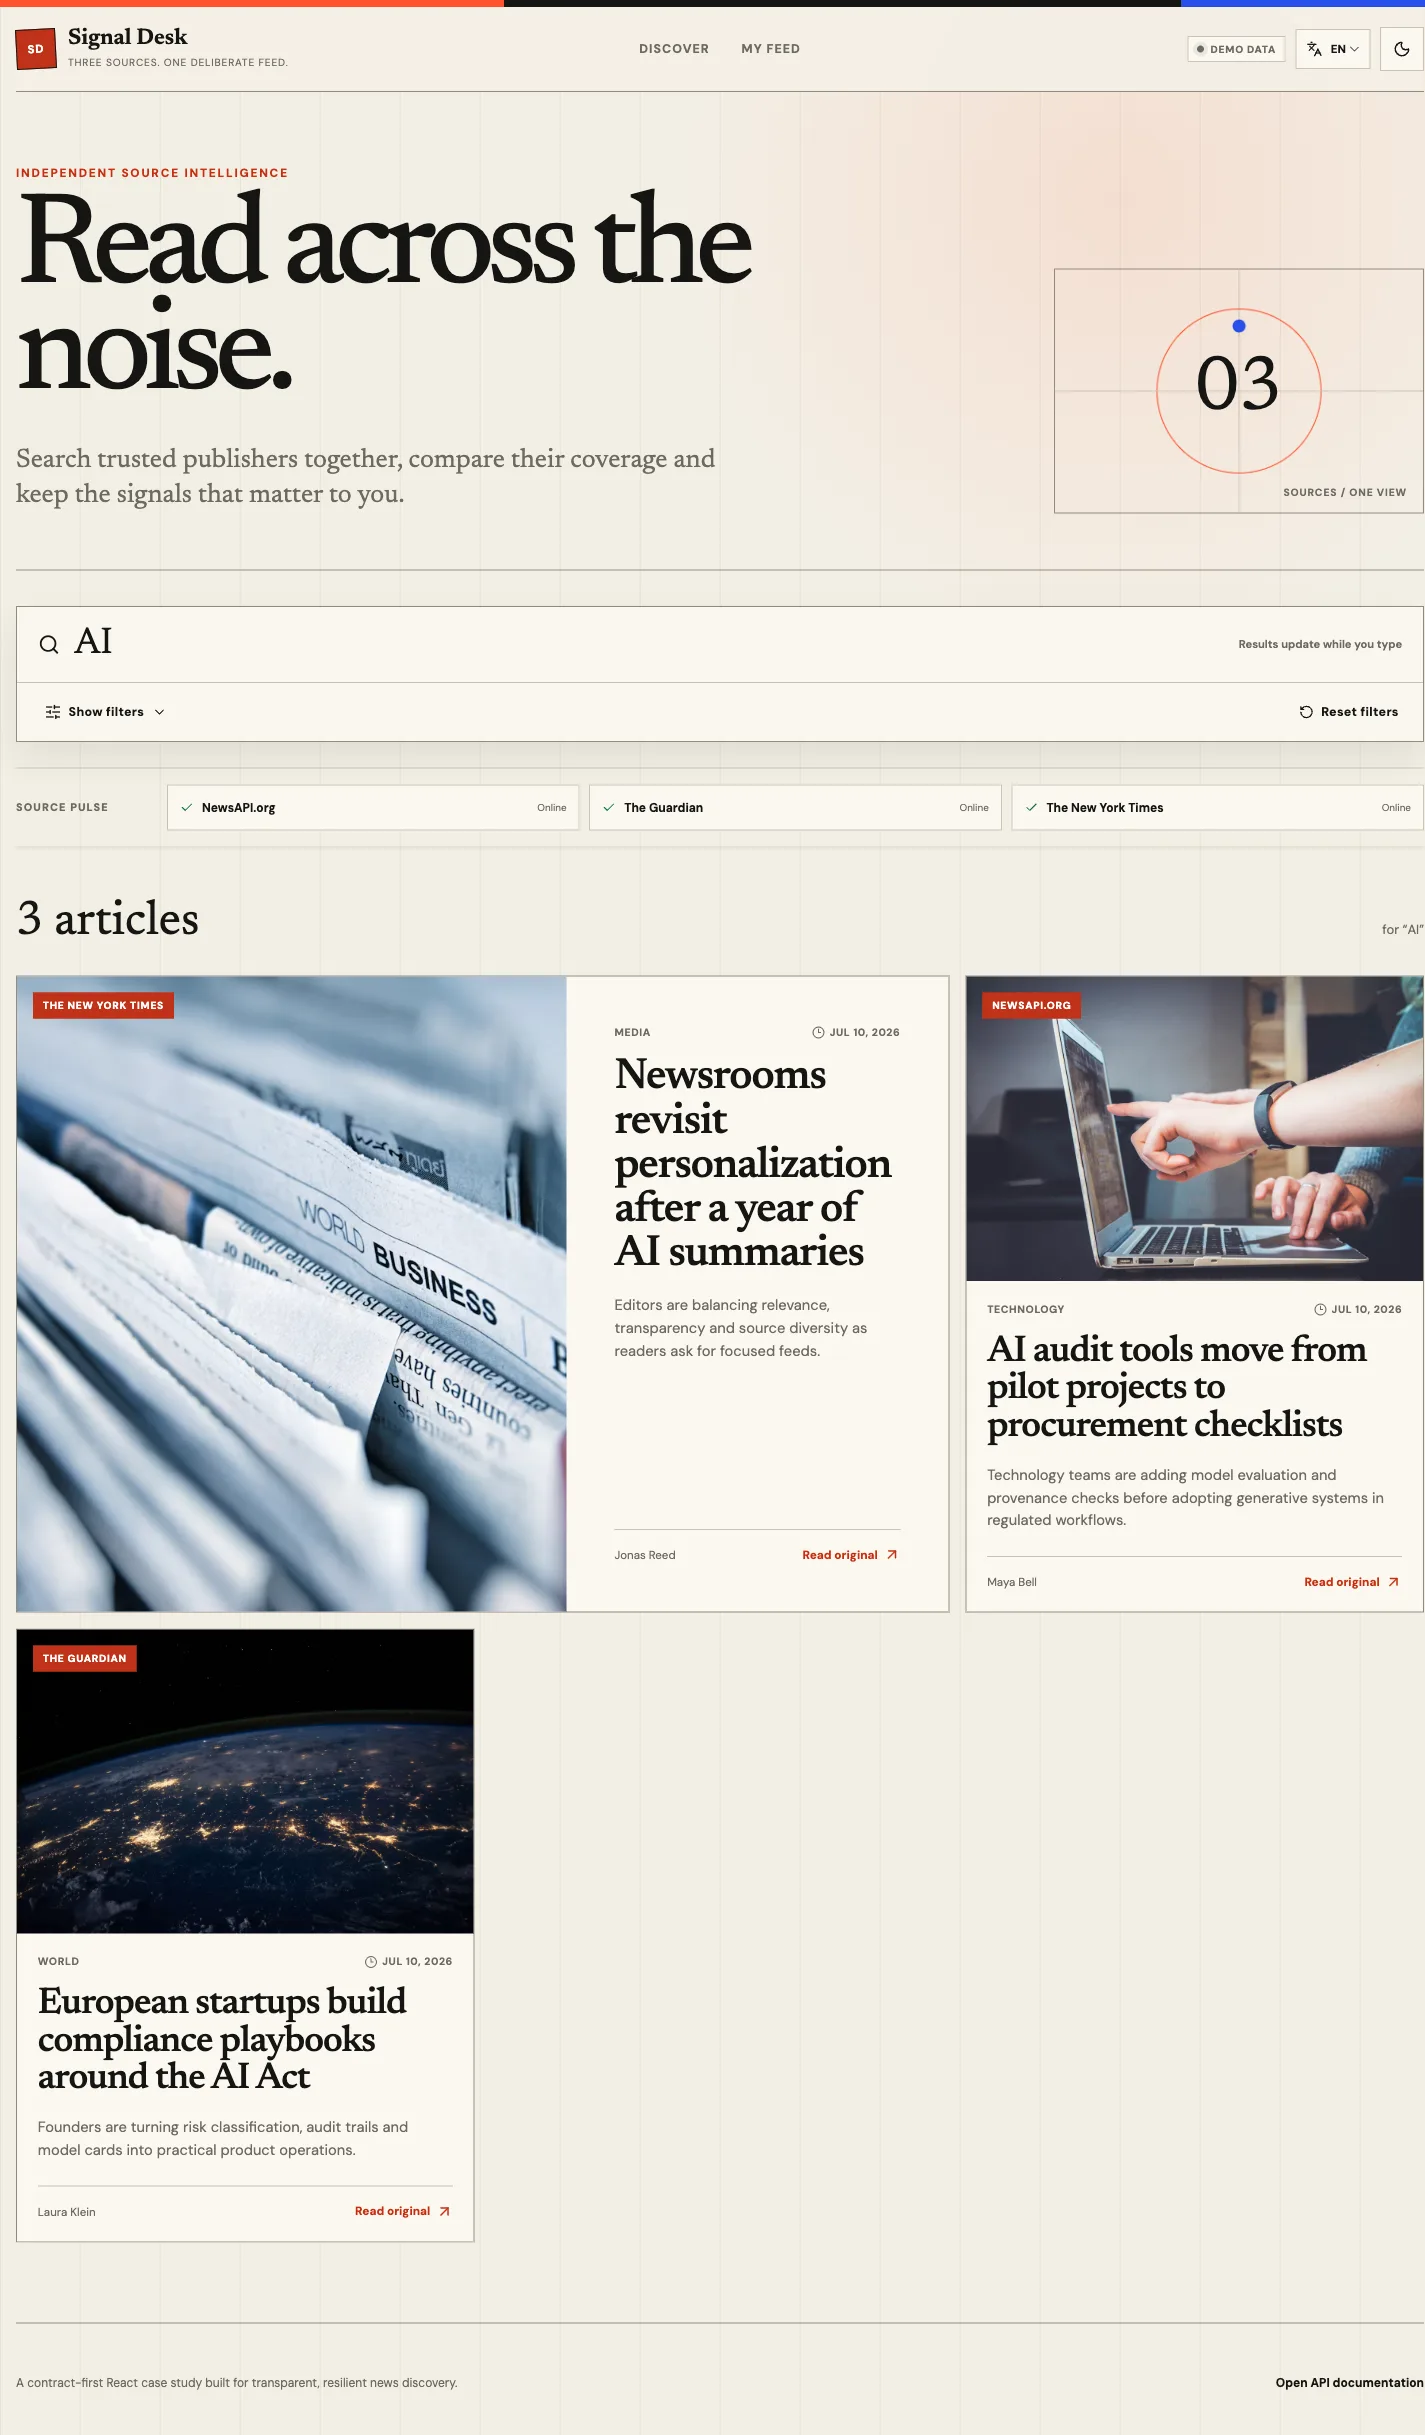
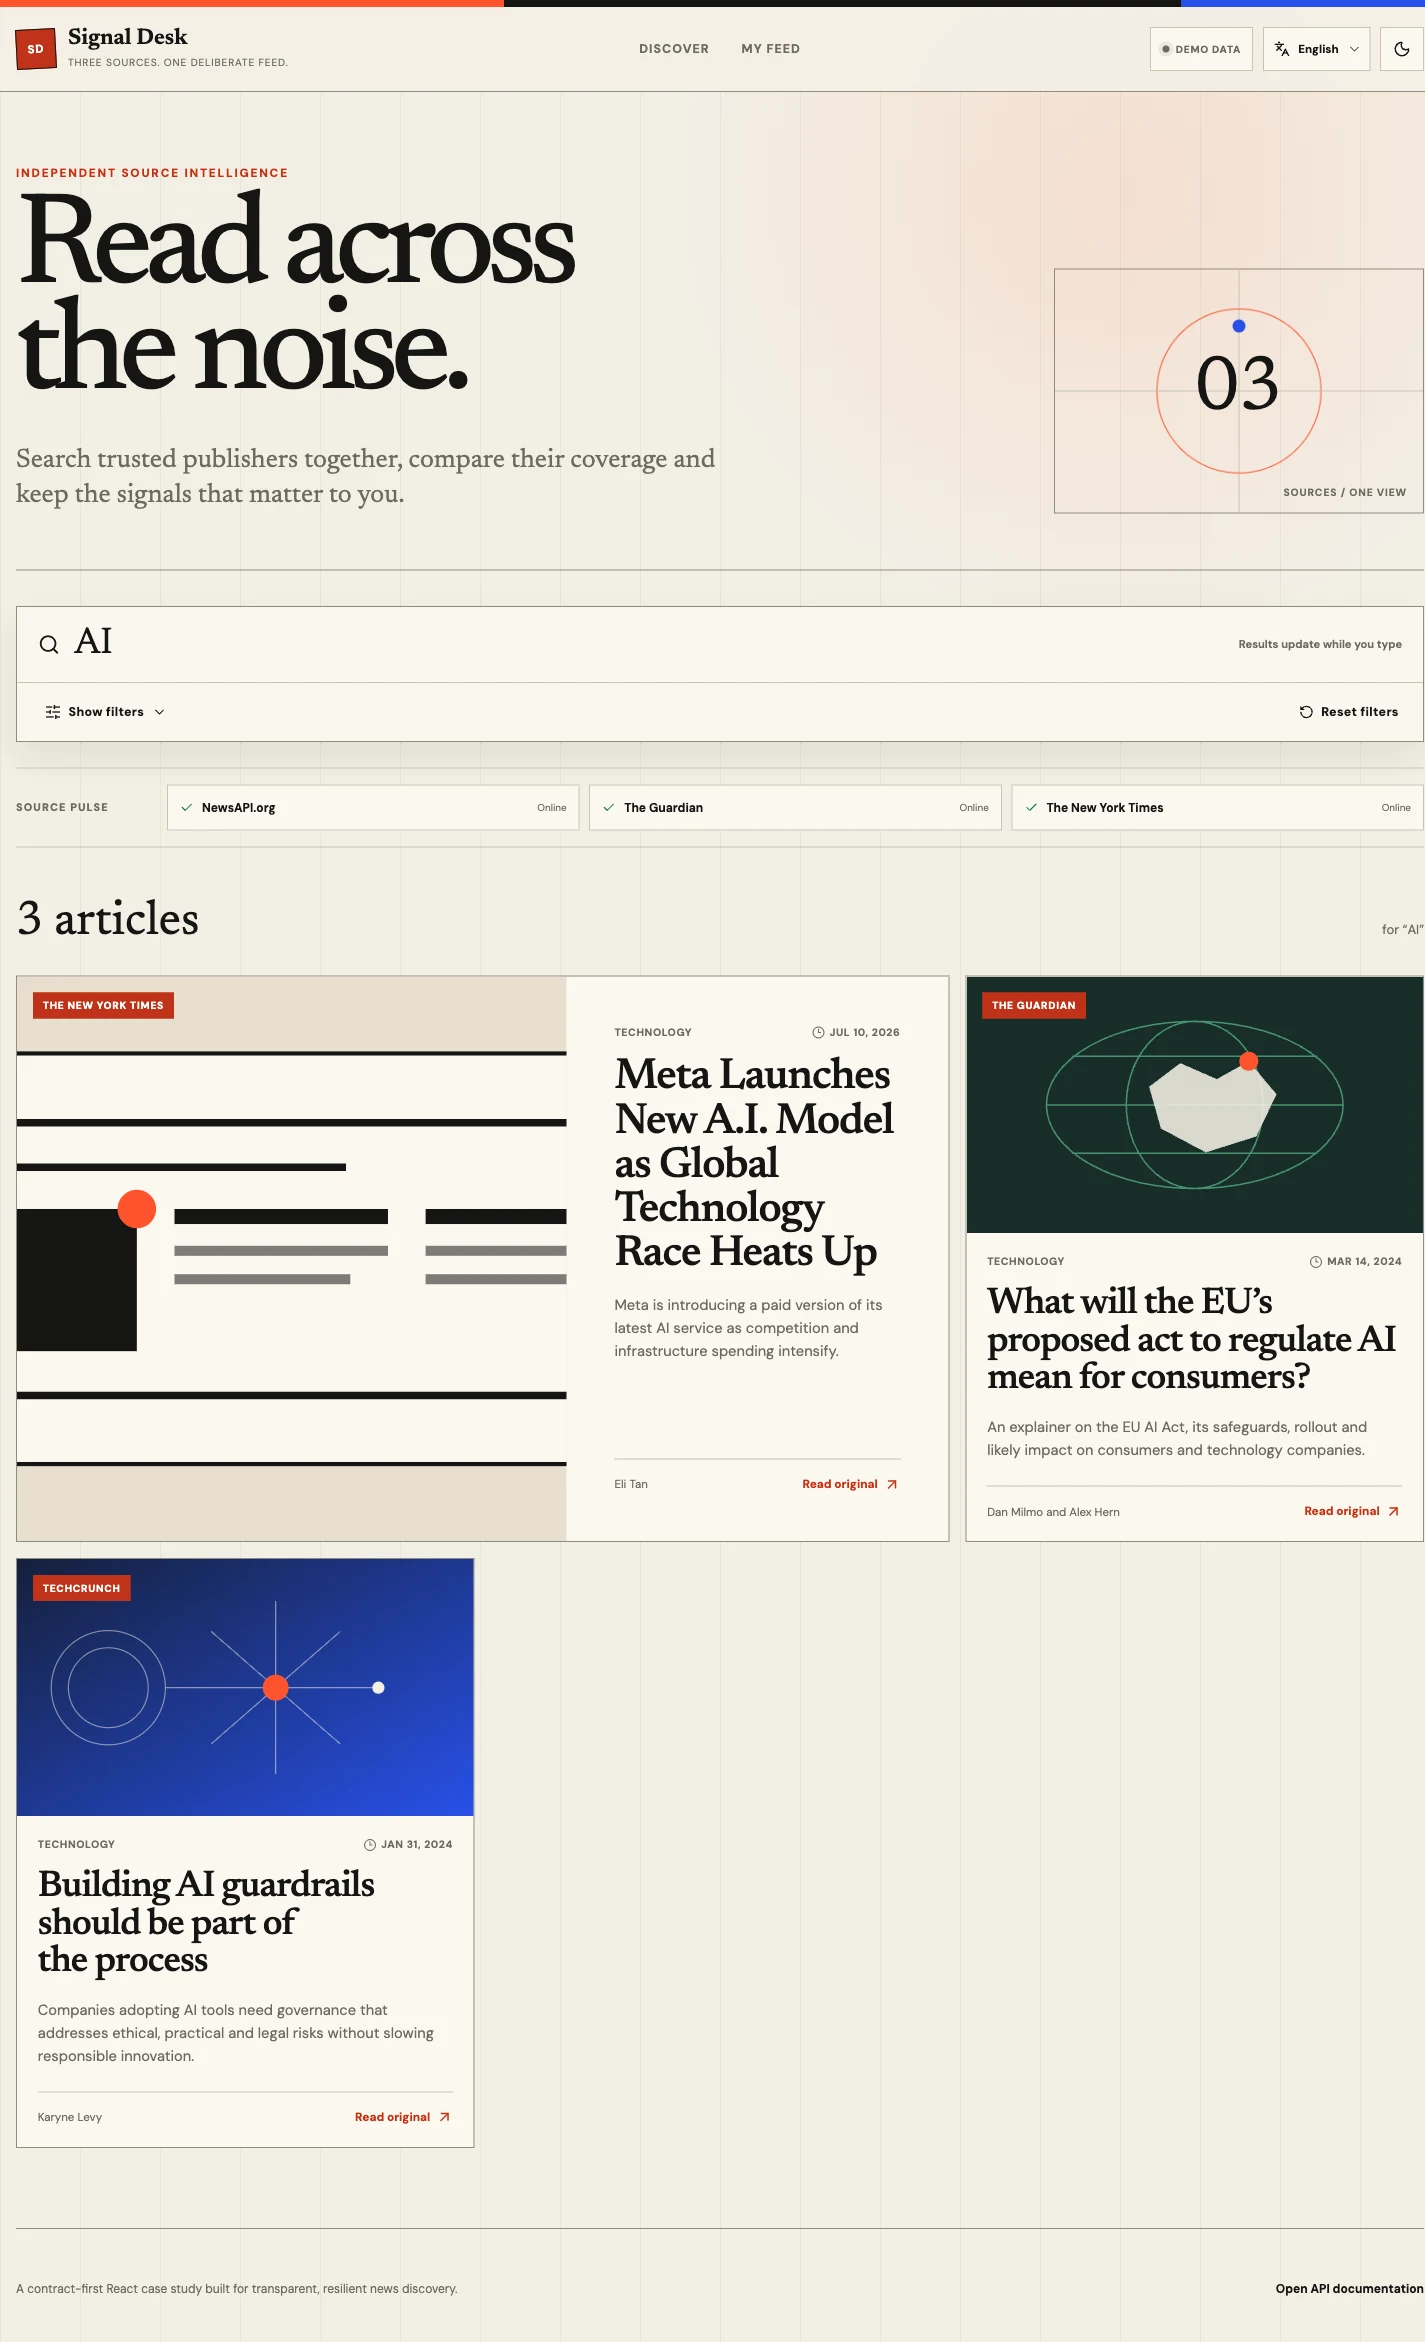
chore(project): integrate GitNexus tooling and finalize submission docs
- Add on-demand GitNexus code-graph scripts and MCP config, kept out of app
  dependencies, the Docker context, and runtime delivery
- Ignore the local .gitnexus index and exclude it from the Docker build
- Correct the copyright holder and README authorship to Jean-Baptiste Thery
- Sync AGENTS, README, architecture, API-source and checklist docs with the
  current runtime behavior and environment handling
- Ship the DM Sans and Newsreader OFL 1.1 third-party font notices
- Refresh the desktop and mobile search screenshots

diff --git a/README.md b/README.md
@@ -13,20 +13,21 @@ browser fixtures and requires no API credentials.
 
 ## AI-assisted engineering, human-owned delivery
 
-This project demonstrates how I use AI professionally. I combine the speed of Codex
-and Claude Code with nine years of engineering experience to define architecture,
-control scope, challenge generated solutions, and validate every change. AI proposes
-and accelerates implementation. I remain accountable for requirements, trade-offs,
-security, testing, maintainability, and the final merge decision.
+This project demonstrates how I, Jean-Baptiste Thery, use AI professionally. I combine
+the speed of Codex and Claude Code with nine years of engineering experience to define
+architecture, control scope, challenge generated solutions, and validate every change.
+AI proposes and accelerates implementation. I remain accountable for requirements,
+trade-offs, security, testing, maintainability, and the final merge decision.
 
 | Tool | Role in my workflow |
 | --- | --- |
-| JCode Skills | My private, self-maintained repository of reusable engineering workflows. I refine it as I learn from real delivery work. |
+| Personal engineering skills | My private, self-maintained repository of reusable engineering workflows. I refine it as I learn from real delivery work. |
 | Ragmir | My local-first retrieval library. I use it to analyze confidential source material locally and derive anonymized, traceable specifications without publishing the original brief. |
+| GitNexus | Builds a local code graph for architecture discovery, dependency tracing, and impact analysis before non-trivial changes. |
 | Codex and Claude Code | Generate and refactor scoped implementations and test scaffolding from explicit constraints. |
 | Agent Browser and Chrome DevTools MCP | Validate rendered behavior through the DOM, console, network, storage, accessibility tree, and responsive viewports. |
 
-The JCode workflows used around this project stay deliberately focused:
+The reusable workflows I maintain for this project stay deliberately focused:
 
 | Skill | Responsibility |
 | --- | --- |
@@ -122,6 +123,7 @@ generates the browser client, and CI rejects generated-client drift.
 | Sources | NewsAPI, Guardian, and NYT adapters with per-source fixture fallback |
 | Accessibility and i18n | Semantic HTML, keyboard focus, reduced motion, English and German |
 | Quality | Biome, TypeScript, Vitest, Playwright, React Doctor, commitlint, Husky |
+| Code intelligence | GitNexus local code graph for architecture and impact analysis |
 | Delivery | Node 22, `mise`, multi-stage Docker, GitHub Actions, GitHub Pages |
 
 More detail is available in [the architecture note](docs/architecture.md) and
@@ -137,6 +139,8 @@ More detail is available in [the architecture note](docs/architecture.md) and
 - Telemetry records page paths, query length rather than query text, and captured application errors.
 - A React error boundary, provider status strip, and `/api/health` expose client and runtime health.
 - CI and Docker smoke tests verify health, search behavior, static delivery, and graceful shutdown.
+- Bundled DM Sans and Newsreader files ship with their required [OFL 1.1 notices](apps/frontend/public/THIRD_PARTY_NOTICES.txt).
+- GitNexus is optional local-only tooling under PolyForm Noncommercial 1.0.0; it is fetched on demand and excluded from application dependencies, Docker, and runtime delivery.
 
 This is review-grade observability, not a claim of a staffed production monitoring
 service. A production rollout would add alerting, server traces, rate limiting, and
@@ -182,6 +186,8 @@ date-stamped evidence lives in [the control checklist](docs/control-checklist.md
 | `mise exec -- pnpm test:e2e` | Run desktop and mobile Playwright journeys. |
 | `mise exec -- pnpm build:static-demo` | Build the fixture-only browser demo. |
 | `mise exec -- pnpm generate:api` | Regenerate OpenAPI and the Orval client. |
+| `mise exec -- pnpm gitnexus:analyze` | Build or refresh the ignored local GitNexus index. |
+| `mise exec -- pnpm gitnexus:status` | Show whether the code graph matches the checkout. |
 
 The repository pins Node `22.22.3` and pnpm `10.34.4`. Use `mise exec -- pnpm`
 or `corepack pnpm` instead of an unrelated global pnpm version.
@@ -192,22 +198,28 @@ or `corepack pnpm` instead of an unrelated global pnpm version.
 | --- | --- |
 | Mock | No provider keys, all adapters return local fixtures. |
 | Mixed | Configured sources are live, remaining sources use fixtures. |
-| Live | All three adapters call their upstream APIs from Hono. |
+| Live | All three credentials are present, so the adapters attempt their upstream APIs from Hono. |
 | Static demo | The browser uses fixtures without a server or API requests. |
 
-Copy [`.env.example`](.env.example) to `.env` only when configuration is needed.
-Server secrets use `NEWS_API_KEY`, `GUARDIAN_API_KEY`, and `NYT_API_KEY`.
+Docker Compose reads an ignored `.env` copied from [`.env.example`](.env.example).
+For `mise run local`, export `NEWS_API_KEY`, `GUARDIAN_API_KEY`, and `NYT_API_KEY`
+in the shell before starting the stack. Vite environment files do not inject these
+server secrets into the Hono process. Never commit real values.
+
 Public PostHog settings use `VITE_PUBLIC_POSTHOG_KEY` and
 `VITE_PUBLIC_POSTHOG_HOST`. Set `MOCK_FAIL_PROVIDER` to demonstrate partial
-failure without changing code.
+failure without changing code. The dated checklist does not claim a three-provider
+live smoke because no real provider credentials were used for that verification.
 
 ## Deliberate trade-offs
 
 - Preferences remain local because account sync and authentication are outside the brief.
 - The static demo is fixture-only; live providers require the Hono runtime.
+- NewsAPI `/everything` exposes no category field, so precise category behavior for that
+  live adapter needs a classification or endpoint strategy before production use.
 - Provider quotas and permitted use must be reviewed before production deployment.
 - Pagination and cross-publisher deduplication remain natural data-layer extensions.
 
 The durable, anonymized requirements are preserved in
-[the case study brief](docs/case-study-brief.md). Identifying source documents are
-intentionally not tracked.
+[the case study brief](docs/case-study-brief.md). The original identifying case-study
+PDF is intentionally not tracked.

diff --git a/docs/architecture.md b/docs/architecture.md
@@ -30,6 +30,17 @@ Les routes et schémas Hono produisent `openapi.json`. Orval génère ensuite le
 fonctions fetch et hooks TanStack Query du frontend. La CI régénère ce client et refuse
 toute dérive non suivie.
 
+## Routes principales
+
+| Route | Responsabilité |
+| --- | --- |
+| `/` | Recherche, filtres URL et résultats normalisés |
+| `/feed` | Préférences et flux personnalisé |
+| `/api/health` | Santé du runtime et mode de configuration `mock`, `mixed` ou `live` |
+| `/api/search` | Recherche agrégée et statut réel de chaque fournisseur |
+| `/docs` et `/openapi.json` | Swagger UI et contrat OpenAPI du runtime Hono |
+| `/ingest/*` | Proxy PostHog optionnel et same-origin |
+
 ## État et personnalisation
 
 - Les recherches et filtres restent dans l'URL pour être partageables.
@@ -55,10 +66,11 @@ applications et copie uniquement leurs bundles dans une image Node non-root.
 - Les valeurs publiques `VITE_*` sont chargées depuis la racine du monorepo.
 - Compose transmet les valeurs PostHog publiques au build Docker, sans y inclure les
   secrets fournisseurs.
-- Le BFF ajoute les en-têtes de sécurité, expose `/api/health` et maintient un statut
-  par source.
-- PostHog reste optionnel et chargé dynamiquement après hydratation. L'error boundary et les smokes CI/Docker complètent la preuve
-  de santé sans prétendre remplacer un dispositif de production.
+- Le BFF ajoute les en-têtes de sécurité. `/api/health` décrit la configuration et
+  `/api/search` fournit le statut réel de chaque source interrogée.
+- PostHog reste optionnel et chargé dynamiquement après le montage client. L'error
+  boundary et les smokes CI/Docker complètent la preuve de santé sans prétendre
+  remplacer un dispositif de production.
 
 ## Validation
 

diff --git a/AGENTS.md b/AGENTS.md
@@ -7,7 +7,7 @@ Ces regles s'appliquent au depot Git Signal Desk.
 - Construire et maintenir un agregateur de news React + TypeScript livre avec son BFF.
 - Ne pas commit, push ou creer de remote sans demande explicite.
 - Le brief anonymise est la source produit autoritaire: `docs/case-study-brief.md`.
-- Ne pas reintegrer de nom d'entreprise, de document source identifiant ou de marque d'evaluateur dans le depot.
+- Ne pas reintegrer le PDF original, le nom d'entreprise ou la marque d'evaluateur dans le depot.
 - Le texte PAC est un contexte conserve: `source-materials/portail-academique-screen-map.md`. Ne pas en faire une exigence produit de l'agregateur de news sans instruction explicite.
 
 ## Communication et fichiers
@@ -22,7 +22,7 @@ Ces regles s'appliquent au depot Git Signal Desk.
 ## Securite
 
 - Ne jamais commiter de secret, de cle API, de token ou de fichier `.env`.
-- Garder les vrais secrets dans `.env.local`, un secret manager ou les variables Docker/CI.
+- Garder les vrais secrets dans un `.env` ignore pour Docker, des variables exportees pour le runtime local, un secret manager ou les variables CI.
 - `.env.example` doit contenir uniquement des noms de variables et des valeurs factices non sensibles.
 - Les cles NewsAPI, Guardian et NYT ne doivent pas etre exposees dans le bundle navigateur.
 - Si une API exige une cle secrete, passer par un proxy local, un serveur minimal, une route backend ou un mode mock documente.
@@ -42,6 +42,7 @@ Ces regles s'appliquent au depot Git Signal Desk.
 - BFF: Hono contract-first dans `apps/backend`, OpenAPI partage et client Orval genere dans `apps/frontend`.
 - Runtime: un container Node sert la SPA et `/api` sur le port 3000.
 - Configuration frontend: Vite charge les variables publiques `VITE_*` depuis la racine du monorepo; Docker les recoit au build, les secrets fournisseurs restent au runtime.
+- Intelligence de code: GitNexus 1.6.9 est execute a la demande pour construire un graphe local ignore, sans entrer dans les dependances ou l'image de l'application.
 
 ## Commandes de reference
 
@@ -59,10 +60,18 @@ Ces regles s'appliquent au depot Git Signal Desk.
 - `mise run stop`: arret et suppression de la stack Docker locale.
 - `mise run verify`: Biome, TypeScript, couverture et build de production.
 - `mise run docker:verify`: build, smoke `/api/health` et `/api/search`, puis arret propre.
+- `pnpm gitnexus:analyze`: construire ou actualiser l'index GitNexus local sans injecter de fichiers de contexte.
+- `pnpm gitnexus:status`: verifier l'etat de l'index GitNexus pour le checkout courant.
 
-## JCode skills disponibles
+## GitNexus
 
-Les skills du repo `jcode-agent-skills` sont installees localement et peuvent etre utilisees dans ce dossier quand elles correspondent a la tache:
+- Garder `.gitnexus/` ignore: l'index est local, volumineux et entierement regenerable.
+- Actualiser l'index avant une exploration d'architecture ou une analyse d'impact non triviale.
+- Utiliser l'integration MCP du projet dans `.codex/config.toml`; ne pas lancer `gitnexus setup`, qui modifierait la configuration globale de la machine.
+
+## Skills maintenues par Jean-Baptiste Thery
+
+Les skills privees maintenues par Jean-Baptiste Thery sont installees localement et peuvent etre utilisees dans ce dossier quand elles correspondent a la tache:
 
 - `docs-cartographer`: synchroniser README, docs et consignes agent avec l'etat reel du dossier.
 - `dependency-tune-up`: auditer ou mettre a jour les dependances JavaScript/TypeScript.

diff --git a/docs/api-sources.md b/docs/api-sources.md
@@ -51,7 +51,6 @@ export interface SearchParams {
 
 export interface ArticleProvider {
   id: Article["provider"];
-  label: string;
   hasLiveCredentials(): boolean;
   search(params: SearchParams, signal?: AbortSignal): Promise<Article[]>;
 }
@@ -61,11 +60,15 @@ export interface ArticleProvider {
 
 - Ne pas prefixer les cles API avec `VITE_`.
 - Ne pas appeler une API necessitant un secret directement depuis le navigateur.
-- Preferer un proxy minimal, une API route ou un serveur Docker qui lit les cles cote serveur.
-- Si les cles ne sont pas disponibles, garder un mode mock explicite avec des fixtures realistes et documenter la limitation.
+- Le BFF Hono est l'unique frontiere qui lit et transmet les cles fournisseurs.
+- Docker Compose lit les cles depuis un `.env` ignore.
+- En local, exporter les cles dans le shell avant `mise run local`; Vite ne les transmet pas au processus Hono.
 
-## Fallbacks a documenter si besoin
+## Comportement runtime
 
-- Si NewsAPI bloque le navigateur ou le plan gratuit, passer par proxy ou fixtures.
-- Si Guardian depasse le quota, afficher un etat partiel et continuer les autres providers.
-- Si NYT ne retourne pas de contenu complet, afficher les metadonnees disponibles et le lien original.
+- Sans cle, l'adaptateur concerne utilise ses fixtures realistes.
+- Avec une cle, une erreur HTTP, un quota depasse ou un schema invalide marque la source en erreur sans remplacer la reponse par des fixtures.
+- Les autres fournisseurs continuent et leurs resultats restent visibles.
+- `/api/health` decrit uniquement le mode de configuration `mock`, `mixed` ou `live` selon la presence des cles.
+- `/api/search` expose le succes ou l'echec reel de chaque fournisseur pour la recherche courante.
+- NewsAPI `/everything` ne fournit pas de categorie native. La precision du filtre categorie de cet adaptateur live reste une limite a traiter avant une production reelle.

diff --git a/docs/control-checklist.md b/docs/control-checklist.md
@@ -4,7 +4,7 @@ Vérification locale du 10 juillet 2026.
 
 ## Source et cadrage
 
-- [x] Les documents source identifiants de l'étude de cas ne sont pas suivis dans le dépôt.
+- [x] Le PDF original identifiant de l'étude de cas n'est pas suivi dans le dépôt.
 - [x] Les exigences durables sont conservées dans `docs/case-study-brief.md`.
 - [x] La méthodologie IA du README est présentée comme un différenciateur professionnel, pas comme une exigence inventée du brief.
 - [x] `PLAN.md` reste ignoré et non suivi par Git.
@@ -17,7 +17,7 @@ Vérification locale du 10 juillet 2026.
 - [x] Flux personnalisé visible et persistant après rechargement.
 - [x] Validation accessible des doublons d'auteur, traduite en anglais et allemand.
 - [x] États chargement, vide, erreur et succès partiel.
-- [x] Liens vers six articles réellement publiés, sans destination `/mock/` en 404.
+- [x] Six destinations éditeur HTTPS dans les fixtures, sans URL `/mock/`; les tests vérifient les liens sans garantir la disponibilité externe permanente.
 - [x] Interface anglais/allemand et thèmes clair/sombre.
 
 ## Sources de données
@@ -27,6 +27,7 @@ Vérification locale du 10 juillet 2026.
 - [x] New York Times intégré avec fallback mock explicite.
 - [x] Chaque fournisseur est normalisé vers le schéma `Article`.
 - [x] Une indisponibilité fournisseur conserve les autres résultats.
+- [ ] Smoke live simultané des trois fournisseurs avec de vraies clés, non exécuté faute d'identifiants locaux.
 
 ## Sécurité et configuration
 
@@ -36,9 +37,10 @@ Vérification locale du 10 juillet 2026.
 - [x] Vite charge les valeurs publiques `VITE_*` depuis la racine du monorepo.
 - [x] Compose transmet uniquement les valeurs PostHog publiques comme arguments de build.
 - [x] Le serveur applique CSP et les en-têtes de sécurité documentés.
-- [x] `pnpm audit --audit-level low` ne remonte aucune vulnérabilité connue.
+- [x] `pnpm audit --audit-level low` ne remonte aucune vulnérabilité connue dans les dépendances applicatives verrouillées.
 - [x] PostHog reste désactivé et hors du chemin initial sans configuration, et ne capture pas le texte recherché.
 - [x] Le conteneur s'exécute avec l'utilisateur non-root `node`.
+- [x] Les polices DM Sans et Newsreader sont distribuées avec leurs avis OFL 1.1 dans le build public.
 
 ## UI et accessibilité
 
@@ -62,7 +64,8 @@ Vérification locale du 10 juillet 2026.
 - [x] Vitest sépare les suites Node et jsdom.
 - [x] `preview` et `preview:static` construisent leurs artefacts avant démarrage.
 - [x] Node `22.22.3` et pnpm `10.34.4` sont épinglés.
-- [x] Les configurations partagées `.zed` et `.codex` sont suivies, sans secret, avec Ragmir épinglé et exécutable.
+- [x] Les configurations partagées `.zed` et `.codex` sont suivies, sans secret, avec Ragmir et GitNexus épinglés et exécutables.
+- [x] GitNexus reste un outil local à la demande, exclu des dépendances, du contexte Docker et du runtime applicatif.
 
 ## Qualité et validation
 
@@ -84,9 +87,6 @@ Vérification locale du 10 juillet 2026.
 - [x] README public recentré sur la candidature et la méthodologie IA responsable.
 - [x] Stack, observabilité, CI, sécurité, règles d'ingénierie et commandes principales documentées.
 - [x] `docs/architecture.md` remplace l'ancien document nommé comme un plan.
+- [x] Captures desktop et mobile régénérées depuis le preview de production avec les fixtures actuelles.
 - [x] Les chiffres de validation détaillés ne sont conservés que dans cette checklist datée.
 - [x] Le workflow Pages attend une CI `main` réussie avant déploiement.
-- [x] La branche `feature/architecture-improvements` est volontairement conservée.
-- [x] Les changements sont regroupés en commits locaux signés sur la branche de travail.
-- [x] Aucun push n'est effectué sans autorisation explicite.
-- [ ] La CI distante de ces commits sera disponible après un prochain push autorisé.

diff --git a/docs/case-study-brief.md b/docs/case-study-brief.md
@@ -1,6 +1,8 @@
 # Case Study Brief
 
-Ce document est la synthese anonymisee du brief original. Les documents source identifiants ne sont volontairement pas suivis dans le depot.
+Ce document est la synthese anonymisee du brief original. Le PDF original identifiant de
+l'etude de cas n'est volontairement pas suivi dans le depot. Le contexte PAC conserve
+separement sous `source-materials/` ne constitue pas une exigence de cet agregateur.
 
 Date de verification locale: 9 juillet 2026.
 